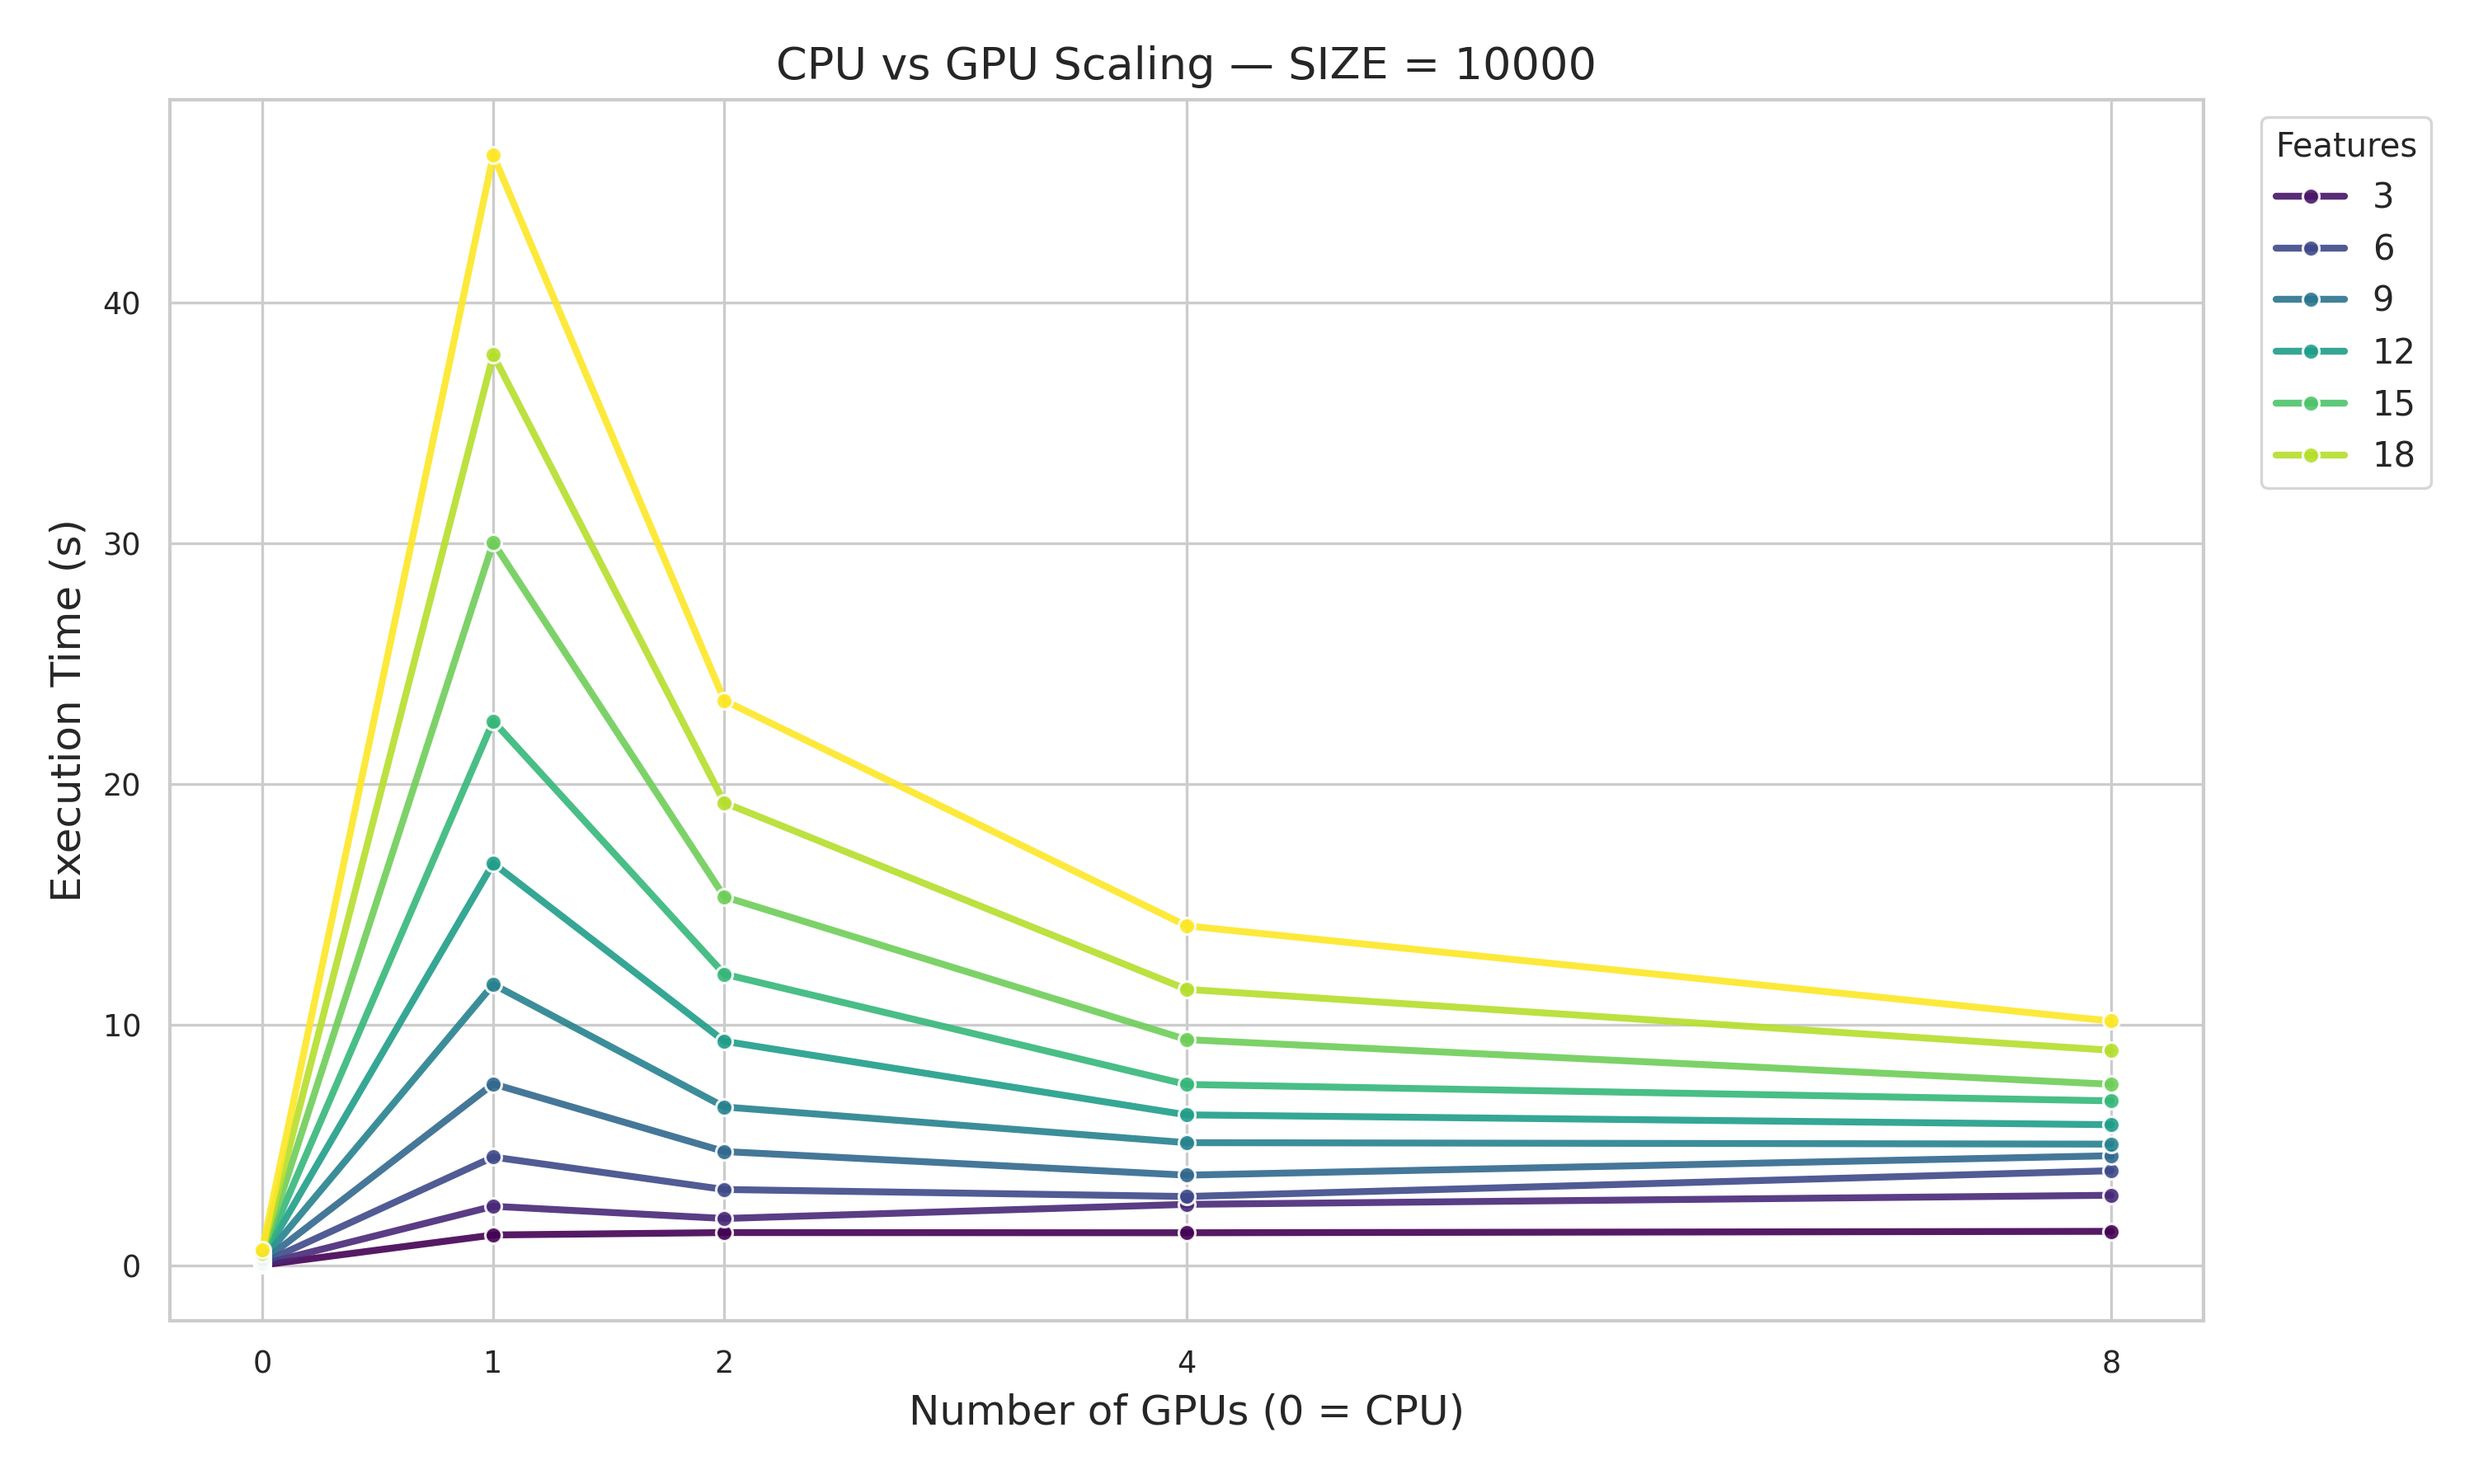
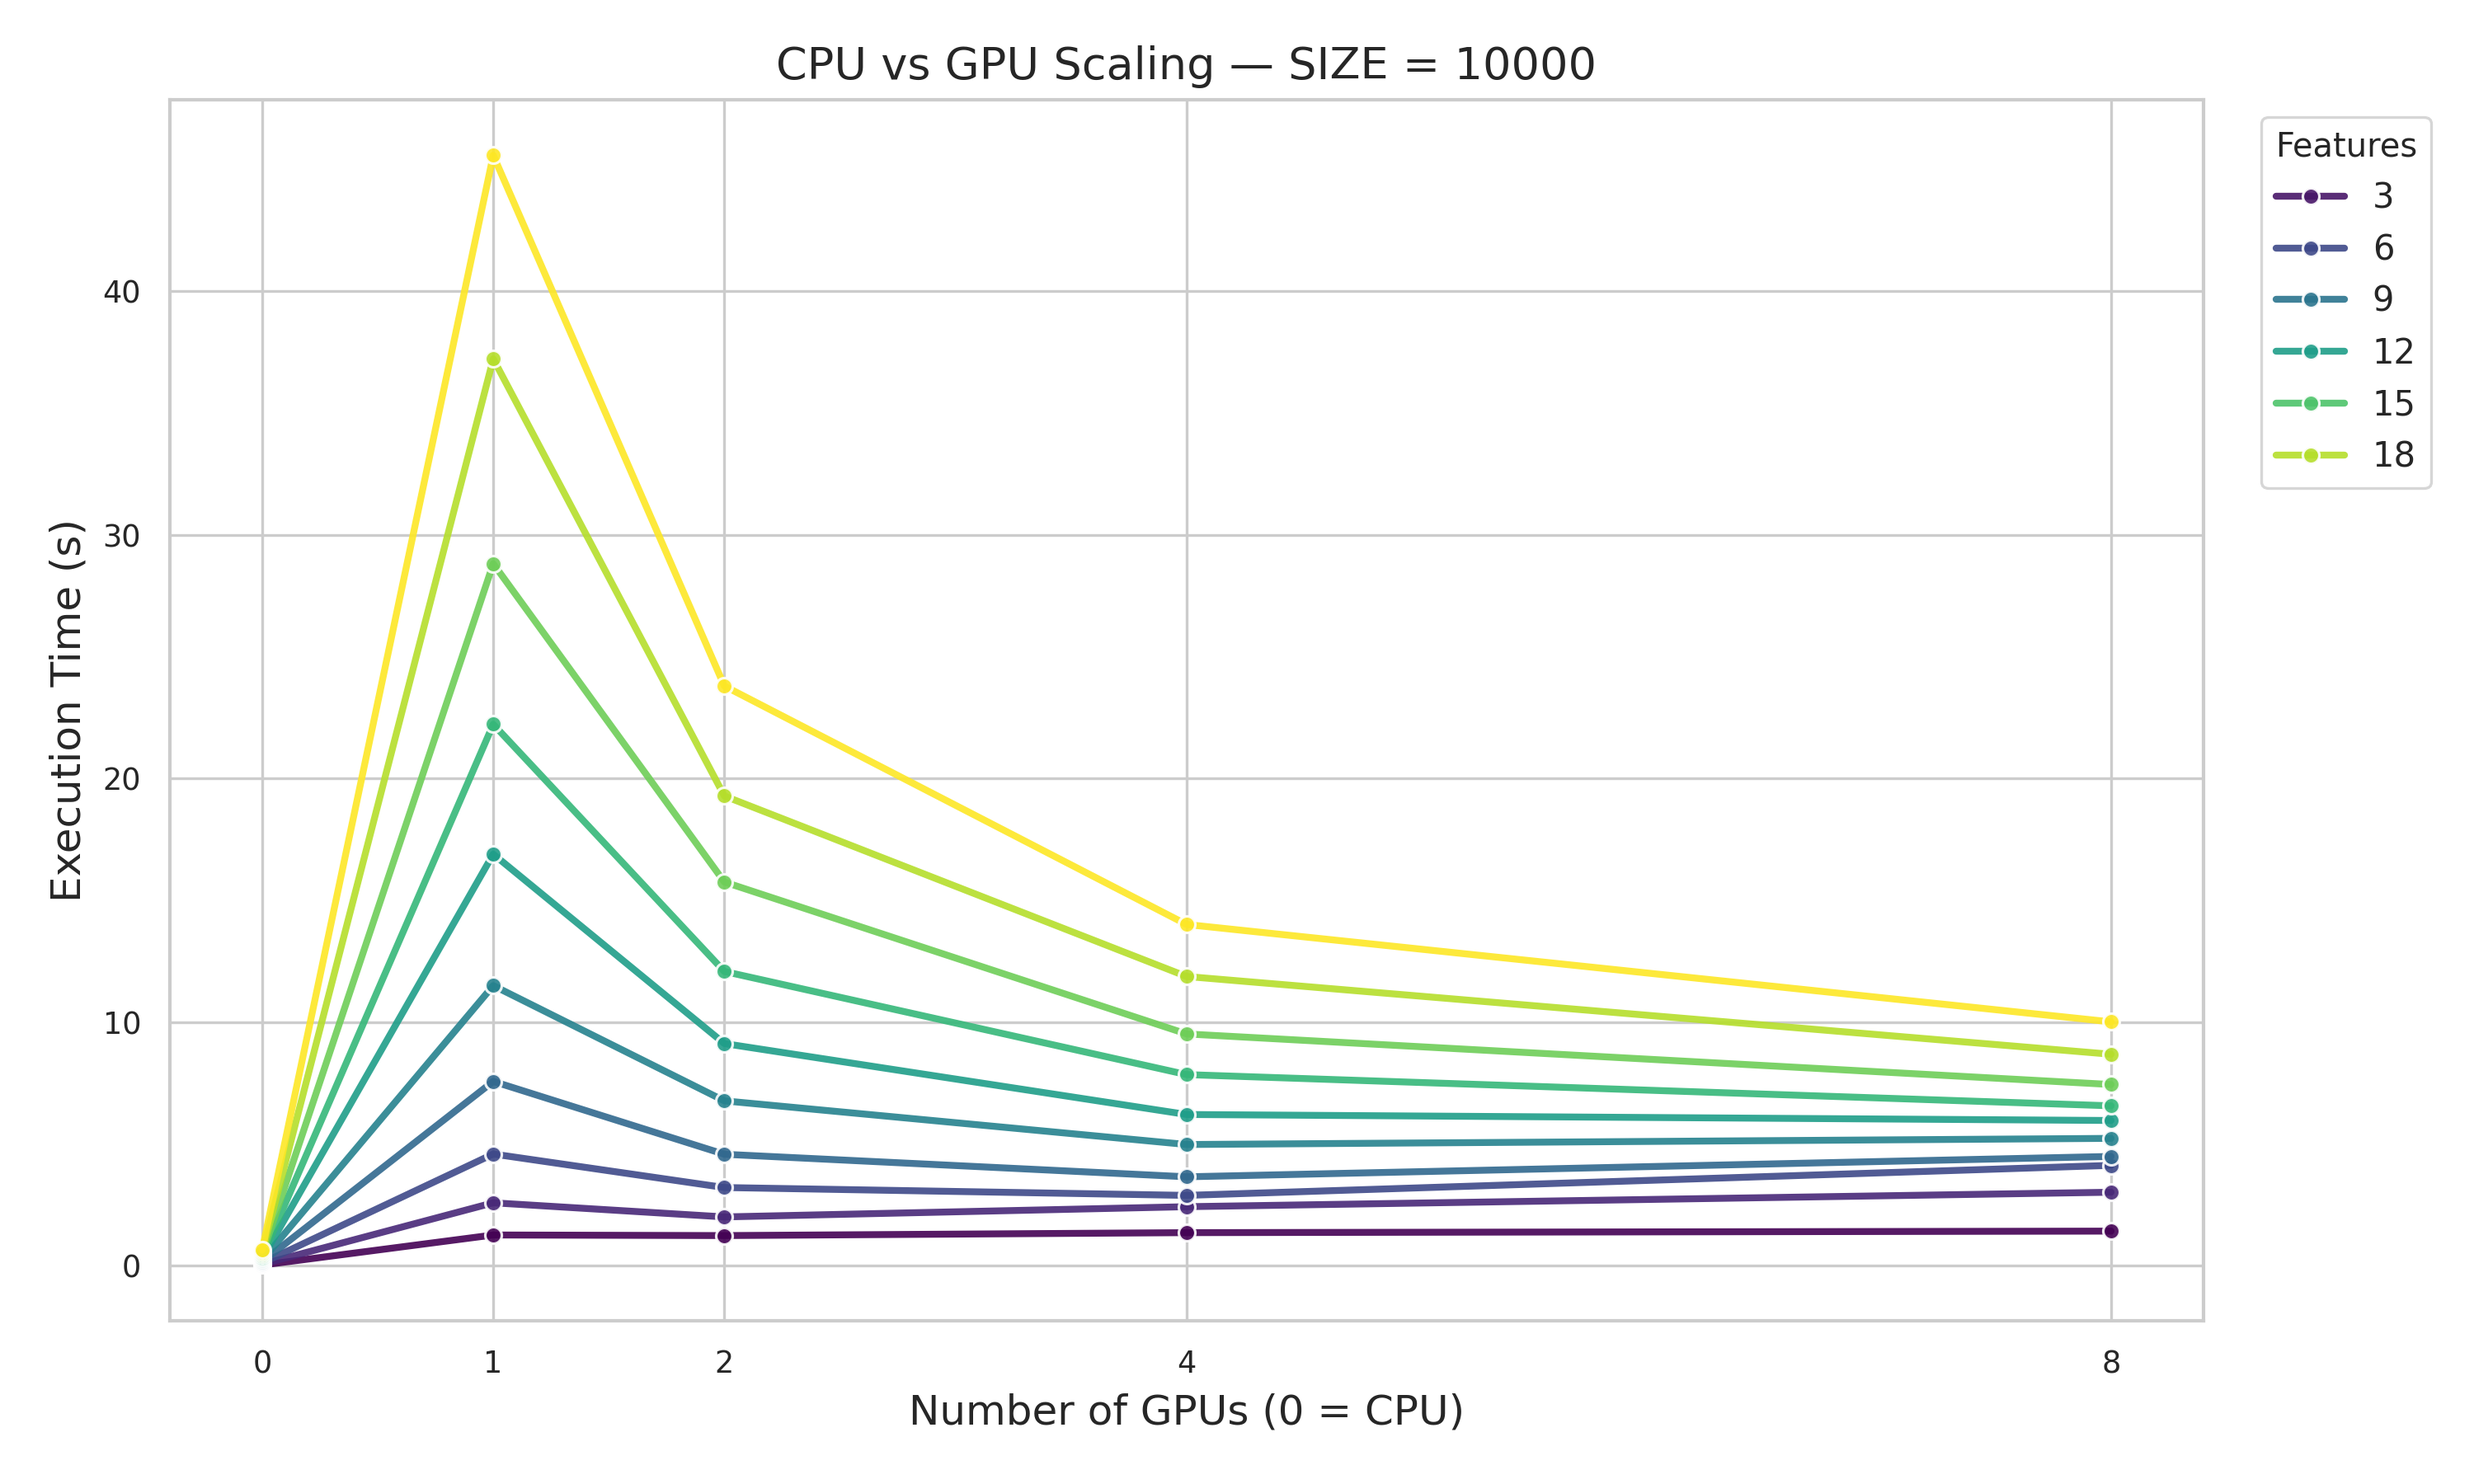
update

diff --git a/logs/graph2.py b/logs/graph2.py
@@ -34,13 +34,13 @@ files = {
 
     'cpu_ccc_scaling.log': 0,
 
-    'test_1gpu_ccc_scaling.log': 1,
+    '1gpu_ccc_scaling.log': 1,
 
-    'test_2gpu_ccc_scaling.log': 2,
+    '2gpu_ccc_scaling.log': 2,
 
-    'test_4gpu_ccc_scaling.log': 4,
+    '4gpu_ccc_scaling.log': 4,
 
-    'test_8gpu_ccc_scaling.log': 8,
+    '8gpu_ccc_scaling.log': 8,
 
 }
 
